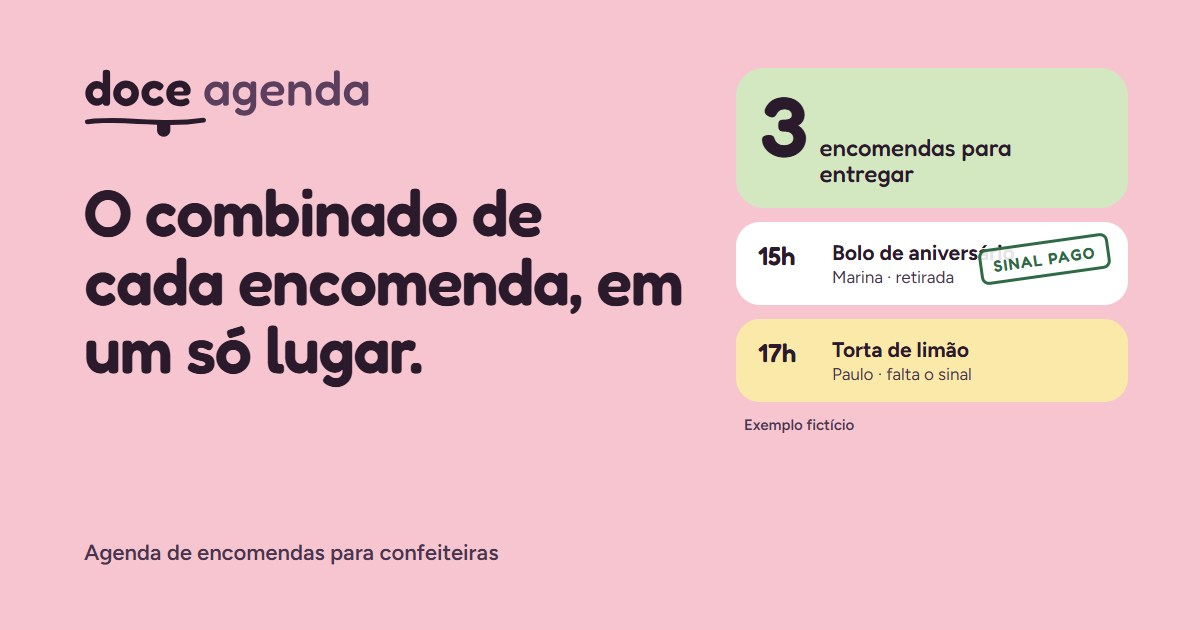
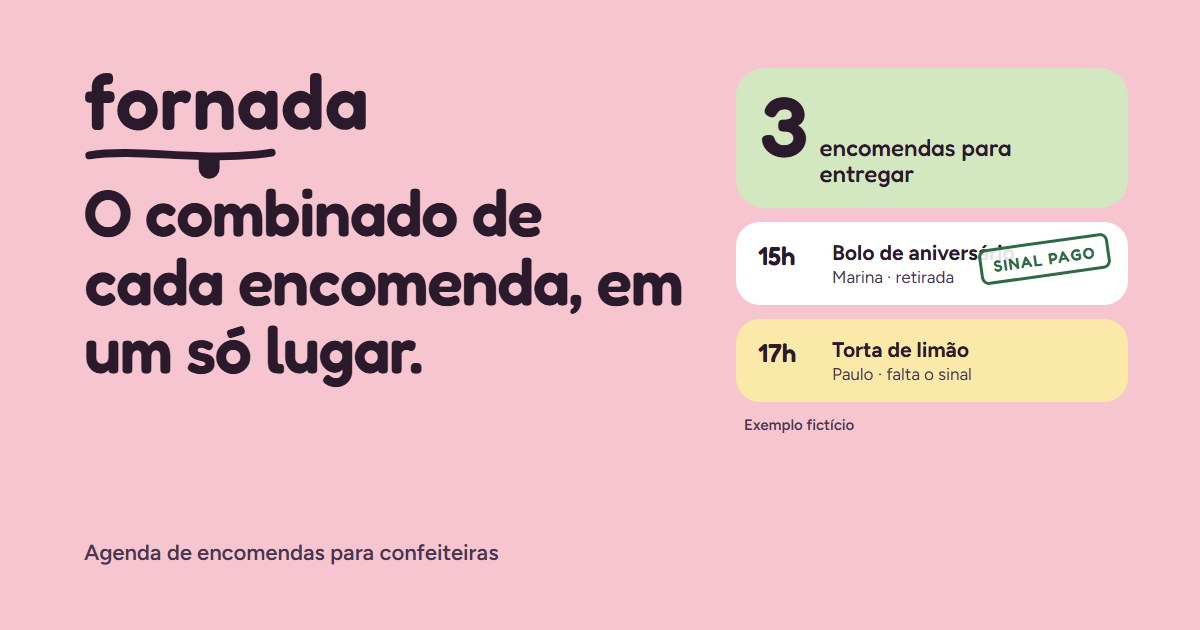
feat: rebranding visível para Fornada e novo posicionamento na landing e cadastro

Changed region(s): [[0.0617, 0.1206, 0.3083, 0.3016]]

diff --git a/public/privacidade/index.html b/public/privacidade/index.html
@@ -1,12 +1,12 @@
-<!doctype html><html lang="pt-BR"><head><meta charset="utf-8"><meta name="viewport" content="width=device-width,initial-scale=1"><title>Privacidade — Doce Agenda</title><link rel="icon" href="/favicon.svg"><link rel="stylesheet" href="/tokens.css"><link rel="stylesheet" href="/privacidade/privacy.css"><script src="/privacidade/voltar.js" defer></script></head><body><header><a href="/"><img src="/logo.svg" alt="Doce Agenda" width="156" height="42"></a><a class="top-back" id="top-back" href="/">Voltar</a></header><main>
-<h1>Seus dados no Doce Agenda</h1>
-<p class="updated">Atualizado em 4 de novembro de 2026 · Doce Agenda, piloto mantido por Lucas Tenório.</p>
-<p>Esta página explica o que acontece com os dados de quem faz um pedido pelo link de uma confeitaria e de quem usa o Doce Agenda para organizar as encomendas. O que é coletado continua o mesmo; nesta versão o texto foi reorganizado e ganhou a parte sobre a conta da confeiteira.</p>
+<!doctype html><html lang="pt-BR"><head><meta charset="utf-8"><meta name="viewport" content="width=device-width,initial-scale=1"><title>Privacidade — Fornada</title><link rel="icon" href="/favicon.svg"><link rel="stylesheet" href="/tokens.css"><link rel="stylesheet" href="/privacidade/privacy.css"><script src="/privacidade/voltar.js" defer></script></head><body><header><a href="/"><img src="/logo.svg" alt="Fornada" width="102" height="42"></a><a class="top-back" id="top-back" href="/">Voltar</a></header><main>
+<h1>Seus dados no Fornada</h1>
+<p class="updated">Atualizado em 4 de novembro de 2026 · Fornada, mantido por Lucas Tenório.</p>
+<p>Esta página explica o que acontece com os dados de quem faz um pedido pelo link de uma confeitaria e de quem usa o Fornada para organizar as encomendas. O que é coletado continua o mesmo; nesta versão o texto foi reorganizado e ganhou a parte sobre a conta da confeiteira.</p>
 
 <section class="summary" aria-labelledby="resumo"><h2 id="resumo">Em resumo</h2><ul>
 <li>Quem faz um pedido pelo link envia nome, WhatsApp, o pedido e, para entrega, o endereço. Esses dados vão para a confeitaria do link, que decide como atender.</li>
 <li>Nada é confirmado nem cobrado pelo link. O Pix, quando houver, é pago no aplicativo do seu banco.</li>
-<li>O Doce Agenda não vende dados, não usa os dados para publicidade e não manda mensagens sozinho.</li>
+<li>O Fornada não vende dados, não usa os dados para publicidade e não manda mensagens sozinho.</li>
 <li>Para pedir acesso, correção ou exclusão, fale primeiro com a confeitaria ou escreva para <a href="mailto:doceagenda@lucast.app">doceagenda@lucast.app</a>.</li>
 </ul></section>
 
@@ -19,18 +19,18 @@
 <li><a href="#onde-ficam">Onde os dados ficam</a></li><li><a href="#abuso">Proteção contra abuso e métricas</a></li><li><a href="#contato">Contato</a></li></ul></nav>
 
 <section class="part" aria-labelledby="parte-pedido"><h2 id="parte-pedido">Para quem faz pedido</h2>
-<h3 id="quem-recebe">Quem recebe os dados</h3><p>A confeitaria identificada no link recebe sua solicitação e decide como atender a encomenda. Por isso, a lei a chama de controladora dos dados dessa solicitação: é ela quem decide o que fazer com eles. O Doce Agenda fornece o sistema e atua como operador, ou seja, só guarda e organiza esses registros para ela.</p>
-<h3 id="o-que-coletamos">O que coletamos e para quê</h3><p>Seu nome, WhatsApp, produto, data, horário, forma de retirada ou entrega e os detalhes que você escrever são usados para analisar e responder à encomenda. O endereço é pedido somente para entrega. Se você marcar outros itens em "Incluir mais alguma coisa?", eles vão junto com o pedido. O envio exige sua autorização; a data e a versão deste aviso ficam registradas. Evite incluir documentos, dados bancários ou informações pessoais de outras pessoas.</p><p>Os campos de observações alimentares são opcionais. Não envie diagnósticos ou histórico de saúde. Se precisar combinar uma restrição alimentar, descreva apenas o necessário para a encomenda.</p><p>"Avisar no WhatsApp" abre uma conversa no WhatsApp com um resumo do pedido. Quem envia a mensagem é você; o Doce Agenda não manda mensagens automaticamente. No WhatsApp valem também as regras de privacidade dele.</p>
+<h3 id="quem-recebe">Quem recebe os dados</h3><p>A confeitaria identificada no link recebe sua solicitação e decide como atender a encomenda. Por isso, a lei a chama de controladora dos dados dessa solicitação: é ela quem decide o que fazer com eles. O Fornada fornece o sistema e atua como operador, ou seja, só guarda e organiza esses registros para ela.</p>
+<h3 id="o-que-coletamos">O que coletamos e para quê</h3><p>Seu nome, WhatsApp, produto, data, horário, forma de retirada ou entrega e os detalhes que você escrever são usados para analisar e responder à encomenda. O endereço é pedido somente para entrega. Se você marcar outros itens em "Incluir mais alguma coisa?", eles vão junto com o pedido. O envio exige sua autorização; a data e a versão deste aviso ficam registradas. Evite incluir documentos, dados bancários ou informações pessoais de outras pessoas.</p><p>Os campos de observações alimentares são opcionais. Não envie diagnósticos ou histórico de saúde. Se precisar combinar uma restrição alimentar, descreva apenas o necessário para a encomenda.</p><p>"Avisar no WhatsApp" abre uma conversa no WhatsApp com um resumo do pedido. Quem envia a mensagem é você; o Fornada não manda mensagens automaticamente. No WhatsApp valem também as regras de privacidade dele.</p>
 <h3 id="acompanhar">Acompanhar o pedido</h3><p>Quem envia uma solicitação pelo link recebe um endereço só daquele pedido para acompanhar a situação. A página mostra o código, o doce, a data, se é retirada ou entrega, a situação e, quando houver, o valor e o que a confeitaria já conferiu. Ela não mostra seu nome, WhatsApp, endereço de entrega, detalhes nem o histórico. Quem tiver esse endereço vê a mesma página: guarde-o e compartilhe só com quem quiser.</p>
 <h3 id="historico">Seu histórico com a confeitaria</h3><p>A confeitaria vê, numa ficha só dela, os pedidos que você já fez: datas, produtos e valores. A ficha junta os pedidos pelo seu WhatsApp (ou pelo nome, quando o pedido não tem telefone) e pode lembrar a confeitaria de datas que se repetem, como um aniversário no ano seguinte. Essas fichas não são compartilhadas com ninguém nem usadas para publicidade. A confeitaria pode apagar seus dados pessoais dos pedidos a qualquer momento: nome, WhatsApp, endereço e detalhes saem, e ficam só datas, produtos e valores para as contas dela.</p>
-<h3 id="pix">Pagamento por Pix</h3><p>A confeitaria pode enviar um código Pix gerado pelo Doce Agenda com a chave e o nome dela. O pagamento acontece no aplicativo do seu banco: o Doce Agenda não processa pagamentos, não acessa sua conta e não recebe seus dados bancários. A confeitaria confere no banco dela e registra no sistema o valor que recebeu.</p>
+<h3 id="pix">Pagamento por Pix</h3><p>A confeitaria pode enviar um código Pix gerado pelo Fornada com a chave e o nome dela. O pagamento acontece no aplicativo do seu banco: o Fornada não processa pagamentos, não acessa sua conta e não recebe seus dados bancários. A confeitaria confere no banco dela e registra no sistema o valor que recebeu.</p>
 <h3 id="rascunho">Rascunho neste aparelho</h3><p>Ao começar um pedido pelo link, guardamos neste navegador um rascunho com o doce, os itens extras, a data, o horário, a forma de retirada ou entrega e os campos do bolo preenchidos, inclusive inscrição e observações alimentares, se usados. Assim você pode continuar o pedido por até 24 horas depois da última alteração.</p><p>Nome, WhatsApp, endereço e detalhes gerais não entram no rascunho, e ele não é enviado a ninguém enquanto você não enviar o pedido. Ele é apagado quando o pedido é enviado, quando você escolhe "Começar de novo" ou na próxima visita ao link depois das 24 horas; até essa visita, o navegador pode manter o registro. Em aparelhos compartilhados, outra pessoa que use o mesmo navegador pode ver o rascunho.</p>
 <h3 id="conservacao">Por quanto tempo ficam</h3><p>Solicitações recusadas têm os dados pessoais e os textos livres apagados do sistema depois de 90 dias, por uma rotina diária. Ficam só registros mínimos da solicitação, para estatística. Solicitações aceitas fazem parte dos registros de atendimento da confeitaria: pergunte a ela por quanto tempo guarda e peça a exclusão quando for o caso.</p>
-<h3 id="direitos">Seus direitos</h3><p>Você pode pedir acesso, correção, informações sobre o uso e exclusão dos seus dados, ou retirar a autorização, respeitados os casos em que a lei manda guardar. Procure primeiro a confeitaria, pelo canal em que recebeu o link ou pelo WhatsApp publicado na vitrine. Também pode escrever para o Doce Agenda, que encaminha o pedido: <a href="mailto:doceagenda@lucast.app">doceagenda@lucast.app</a>.</p><p>Não use o formulário para enviar dados de crianças sem autorização e acompanhamento de um responsável.</p>
+<h3 id="direitos">Seus direitos</h3><p>Você pode pedir acesso, correção, informações sobre o uso e exclusão dos seus dados, ou retirar a autorização, respeitados os casos em que a lei manda guardar. Procure primeiro a confeitaria, pelo canal em que recebeu o link ou pelo WhatsApp publicado na vitrine. Também pode escrever para o Fornada, que encaminha o pedido: <a href="mailto:doceagenda@lucast.app">doceagenda@lucast.app</a>.</p><p>Não use o formulário para enviar dados de crianças sem autorização e acompanhamento de um responsável.</p>
 </section>
 
 <section class="part" aria-labelledby="parte-confeiteira"><h2 id="parte-confeiteira">Para a confeiteira</h2>
-<h3 id="conta">Sua conta</h3><p>Para criar a conta, pedimos o nome da confeitaria, seu e-mail e uma senha. A senha fica guardada de forma protegida pelo serviço de contas e ninguém consegue lê-la, nem o Doce Agenda. Se a entrada com Google estiver disponível e você usá-la, o Google nos informa seu nome e e-mail.</p><p>Dentro da conta ficam os dados que você anota para trabalhar: pedidos, clientes, pagamentos, dias e limites, a vitrine e, se você cadastrar, a chave Pix e o nome que aparecem no código Pix. Só quem entra com a sua conta vê esses dados. Eles são usados para o app funcionar, não para publicidade, e não são vendidos.</p><p>Os dados das suas clientes que entram pelo link seguem as regras da parte "Para quem faz pedido": use-os só para atender as encomendas. Para pedir acesso, correção ou exclusão da sua conta e dos dados dela, escreva para <a href="mailto:doceagenda@lucast.app">doceagenda@lucast.app</a> usando o e-mail da conta.</p>
+<h3 id="conta">Sua conta</h3><p>Para criar a conta, pedimos o nome da confeitaria, seu e-mail e uma senha. A senha fica guardada de forma protegida pelo serviço de contas e ninguém consegue lê-la, nem o Fornada. Se a entrada com Google estiver disponível e você usá-la, o Google nos informa seu nome e e-mail.</p><p>Dentro da conta ficam os dados que você anota para trabalhar: pedidos, clientes, pagamentos, dias e limites, a vitrine e, se você cadastrar, a chave Pix e o nome que aparecem no código Pix. Só quem entra com a sua conta vê esses dados. Eles são usados para o app funcionar, não para publicidade, e não são vendidos.</p><p>Os dados das suas clientes que entram pelo link seguem as regras da parte "Para quem faz pedido": use-os só para atender as encomendas. Para pedir acesso, correção ou exclusão da sua conta e dos dados dela, escreva para <a href="mailto:doceagenda@lucast.app">doceagenda@lucast.app</a> usando o e-mail da conta.</p>
 <h3 id="vitrine">A vitrine e as fotos</h3><p>A página do link mostra o que a própria confeitaria publicou: nome, frase de apresentação, Instagram, logo, foto de capa, fotos e descrições dos doces e, se ela quiser, valores "a partir de". A vitrine não mostra encomendas nem informações de clientes. As imagens ficam guardadas no Supabase e são públicas para quem tem o link, como qualquer página da internet; por isso, não devem mostrar pessoas sem autorização nem dados pessoais. Antes de enviar, o app reduz cada foto no seu aparelho e apaga dados da câmera, como a localização. Fotos trocadas ou removidas são apagadas do armazenamento quando você salva a vitrine de novo.</p>
 <h3 id="avisos">Avisos no aparelho</h3><p>Se você ligar os avisos e permitir as notificações no navegador, o aparelho pode mostrar o nome da cliente e o produto de um pedido novo enquanto o app estiver aberto, inclusive em outra aba. Outras pessoas que vejam a tela podem ler esse aviso. Dá para desligar em Ajustes ou nas permissões do navegador. Com o app fechado, o aviso ainda não funciona.</p>
 <h3 id="copias">Cópias de segurança</h3><p>Você pode baixar uma cópia de todos os seus pedidos quando quiser. Depois de baixada, a cópia fica no seu aparelho e sob sua responsabilidade, inclusive os dados das clientes que estão nela.</p>
@@ -41,4 +41,4 @@
 <h3 id="abuso">Proteção contra abuso e métricas</h3><p>Para limitar spam, o servidor usa um identificador calculado a partir do IP, sem guardar o IP em texto nessa base de controle. Esses registros temporários são apagados depois de dois dias. Contamos visitas, pedidos começados e envios de forma agregada, para entender o uso do link; não usamos esses dados para publicidade direcionada.</p>
 <h3 id="contato">Contato</h3><p>Dúvidas e pedidos sobre privacidade: <a href="mailto:doceagenda@lucast.app">doceagenda@lucast.app</a>.</p>
 </section>
-<p class="tab-note" id="tab-note" hidden>Abriu esta página numa aba nova? Feche esta aba para voltar ao seu pedido.</p><p class="back"><a id="back-link" href="/">Voltar ao Doce Agenda</a></p></main></body></html>
+<p class="tab-note" id="tab-note" hidden>Abriu esta página numa aba nova? Feche esta aba para voltar ao seu pedido.</p><p class="back"><a id="back-link" href="/">Voltar ao Fornada</a></p></main></body></html>

diff --git a/public/index.html b/public/index.html
@@ -8,7 +8,7 @@
     <link rel="icon" href="/favicon.svg" type="image/svg+xml">
     <link rel="apple-touch-icon" href="/icons/apple-touch-icon.png">
     <link rel="manifest" href="/manifest.webmanifest">
-    <title>Doce Agenda — pedidos da sua confeitaria</title>
+    <title>Fornada — pedidos da sua confeitaria</title>
     <link rel="stylesheet" href="/tokens.css">
     <link rel="stylesheet" href="/ui/doce-wa.css">
     <link rel="stylesheet" href="/ui/vnext.css">
@@ -19,7 +19,7 @@
   <body class="vnext">
     <div class="app-shell">
       <header class="topbar">
-        <a class="brand" href="#hoje" data-view="today" aria-label="Doce Agenda, ir para Hoje"><img src="/logo.svg" alt="Doce Agenda" width="182" height="48"></a>
+        <a class="brand" href="#hoje" data-view="today" aria-label="Fornada, ir para Hoje"><img src="/logo.svg" alt="Fornada" width="116" height="48"></a>
         <div class="topbar-actions">
           <span class="connection" id="connection" role="status"><span class="connection-dot"></span><span id="connection-text">Conectando…</span><span class="connection-short" id="connection-short" aria-hidden="true"></span></span>
           <button class="icon-button settings-button" data-view="settings" type="button" aria-label="Ajustes" title="Ajustes">Ajustes</button>
@@ -29,7 +29,7 @@
       <div class="demo-bar" id="demo-bar" role="note" hidden><p><strong>Demonstração</strong>, dados só neste navegador.</p><div class="demo-bar-actions"><button class="demo-bar-link" type="button" data-action="open-onboarding">Como funciona</button><button class="demo-bar-link" id="demo-reset" type="button" data-action="reset-demo" hidden>Recomeçar</button><a class="demo-bar-cta" href="/cadastro/">Criar conta grátis</a></div></div>
 
       <nav class="main-nav" aria-label="Navegação principal">
-        <a class="nav-brand" href="#hoje" data-view="today" aria-label="Doce Agenda, ir para Hoje"><img src="/logo.svg" alt="Doce Agenda" width="160" height="42"></a>
+        <a class="nav-brand" href="#hoje" data-view="today" aria-label="Fornada, ir para Hoje"><img src="/logo.svg" alt="Fornada" width="102" height="42"></a>
         <div class="nav-studio" id="nav-studio" hidden></div>
         <button class="nav-item active" data-view="today" type="button" aria-current="page"><span class="nav-icon" aria-hidden="true"><svg viewBox="0 0 24 24"><path d="M4 11.5 12 4l8 7.5V20h-5v-5.5H9V20H4z"/></svg></span>Hoje<span class="nav-count" id="nav-attention-count" hidden></span></button>
         <button class="nav-item" data-view="orders" type="button"><span class="nav-icon" aria-hidden="true"><svg viewBox="0 0 24 24"><path d="M8 5H6a2 2 0 0 0-2 2v13h16V7a2 2 0 0 0-2-2h-2"/><rect x="8" y="3" width="8" height="4" rx="1"/><path d="M8 12h8M8 16h8"/></svg></span>Pedidos</button>
@@ -54,7 +54,7 @@
         <section class="view-panel" id="view-settings" aria-labelledby="settings-title" hidden><div id="settings-content"></div><details class="settings-data-tools surface"><summary>Avançado</summary><div><h2>Cópia de segurança</h2><p>Exporte seus dados ou restaure um arquivo salvo anteriormente. A cópia inclui seus pedidos, os dados das clientes e sua chave Pix: guarde em lugar seguro.</p></div><div><button class="button button-quiet" id="export-button" type="button" title="Baixar cópia de segurança" aria-label="Baixar cópia de segurança">Baixar backup</button> <button class="button button-quiet" id="restore-button" type="button" title="Restaurar dados" aria-label="Restaurar dados">Restaurar dados</button></div></details></section>
       </main>
 
-      <footer class="app-footer"><span>Doce Agenda</span><span>Seu combinado, em um só lugar.</span></footer>
+      <footer class="app-footer"><span>Fornada</span><span>Seu combinado, em um só lugar.</span></footer>
     </div>
 
     <dialog class="dialog order-dialog" id="order-dialog" aria-labelledby="order-dialog-title">
@@ -115,7 +115,7 @@
     <dialog class="dialog" id="refuse-dialog" aria-labelledby="refuse-title"><form id="refuse-form" method="dialog"><div class="dialog-heading"><h2 id="refuse-title">Recusar este pedido?</h2><button type="button" class="icon-button close-dialog" data-close="refuse-dialog" aria-label="Fechar"><svg class="ui-icon" viewBox="0 0 24 24" aria-hidden="true"><path d="M6 6l12 12M18 6 6 18"/></svg></button></div><p>A cliente não é avisada sozinha. Depois, copie a mensagem pronta e mande no WhatsApp.</p><label class="field"><span>Quer explicar o motivo? (opcional)</span><textarea name="reason" maxlength="500" rows="2" placeholder="Ex.: essa data já está lotada"></textarea></label><p role="alert" class="form-error" hidden></p><div class="dialog-actions"><button type="button" class="button button-quiet" data-close="refuse-dialog">Voltar</button><button type="submit" class="button button-primary">Recusar pedido</button></div></form></dialog>
     <dialog class="dialog restore-dialog" id="restore-dialog" aria-labelledby="restore-title">
       <div class="dialog-heading"><div><h2 id="restore-title">Restaurar dados</h2></div><button class="icon-button" type="button" data-close="restore-dialog" aria-label="Fechar restauração"><svg class="ui-icon" viewBox="0 0 24 24" aria-hidden="true"><path d="M6 6l12 12M18 6 6 18"/></svg></button></div>
-      <p>Escolha um backup JSON do Doce Agenda. A restauração substitui os dados deste dispositivo. Uma cópia do estado atual será preservada antes da troca.</p>
+      <p>Escolha um backup JSON do Fornada. A restauração substitui os dados deste dispositivo. Uma cópia do estado atual será preservada antes da troca.</p>
       <label class="button button-quiet restore-file-label" for="restore-file">Escolher arquivo JSON</label><input id="restore-file" class="visually-hidden" type="file" accept="application/json,.json">
       <p class="restore-preview" id="restore-preview" aria-live="polite">Nenhum arquivo escolhido.</p>
       <div class="dialog-actions"><button class="button button-quiet" type="button" data-close="restore-dialog">Cancelar</button><button class="button button-primary" id="restore-confirm" type="button" disabled>Substituir dados</button></div>

diff --git a/public/previa-landing/index.html b/public/previa-landing/index.html
@@ -5,7 +5,7 @@
 <meta name="viewport" content="width=device-width, initial-scale=1">
 <meta name="robots" content="noindex, nofollow">
 <meta name="theme-color" content="#faf7f5">
-<title>Doce Agenda — Uma semana de encomendas, sem susto</title>
+<title>Fornada — Uma semana de encomendas, sem susto</title>
 <link rel="icon" href="/favicon.svg" type="image/svg+xml">
 <link rel="apple-touch-icon" href="/icons/apple-touch-icon.png">
 <link rel="stylesheet" href="/tokens.css">
@@ -16,8 +16,8 @@
 <a class="skip-link" href="#main">Pular para o conteúdo</a>
 
 <header class="header wrap">
-  <a class="brand" href="/" aria-label="Doce Agenda, início">
-    <img src="/logo.svg" width="164" height="43" alt="Doce Agenda">
+  <a class="brand" href="/" aria-label="Fornada, início">
+    <img src="/logo.svg" width="104" height="43" alt="Fornada">
   </a>
   <a class="header-login" href="/cadastro/?mode=login">Entrar</a>
 </header>
@@ -38,8 +38,8 @@
         <a class="outline" href="/cadastro/">Criar minha agenda grátis</a>
       </div>
       <ul class="checks">
-        <li>Grátis: projeto acadêmico</li>
-        <li>Sem cartão</li>
+        <li>Grátis, sem cartão</li>
+        <li>Seus pedidos ficam na sua conta</li>
         <li>Nada para instalar</li>
       </ul>
     </div>
@@ -59,7 +59,7 @@
         </ul>
       </div>
 
-      <aside class="preview-app" aria-label="Prévia da tela Agenda do Doce Agenda">
+      <aside class="preview-app" aria-label="Prévia da tela Agenda do Fornada">
         <div class="pa-top">
           <strong>Terça, 27 de outubro</strong>
           <span class="pa-pill">Meu link</span>
@@ -304,7 +304,7 @@
         <li>Seus dados são seus</li>
         <li>Nada é confirmado sem você</li>
         <li>Nenhum pagamento passa pelo app</li>
-        <li>Grátis: é um projeto acadêmico</li>
+        <li>Você pode pedir uma cópia dos seus dados</li>
       </ul>
     </div>
   </section>
@@ -312,12 +312,13 @@
   <section class="faq wrap" aria-labelledby="faq-title">
     <h2 id="faq-title">Ficou alguma dúvida?</h2>
     <div class="faq-list">
-      <details><summary>Quanto custa?</summary><p>Nada. O Doce Agenda é um projeto acadêmico e gratuito, sem cartão.</p></details>
-      <details><summary>E se o projeto acabar?</summary><p>Você pode pedir uma cópia dos seus dados a qualquer momento. E, se um dia o Doce Agenda for encerrado, você será avisada com antecedência para guardar tudo.</p></details>
+      <details><summary>Quanto custa?</summary><p>Nada. Criar a conta e usar o app é grátis, sem cartão.</p></details>
+      <details><summary>E se o app sair do ar?</summary><p>Você pode pedir uma cópia dos seus dados a qualquer momento. E, se um dia o Fornada for encerrado, você será avisada com antecedência para guardar tudo.</p></details>
       <details><summary>Preciso instalar alguma coisa?</summary><p>Não. Abra pelo navegador do celular, entre com sua conta e pronto.</p></details>
       <details><summary>Minha cliente precisa baixar algo para usar o link?</summary><p>Não. Ela abre o link, escolhe o doce e a data, e você revisa antes de confirmar.</p></details>
       <details><summary>Sou avisada quando chega um pedido pelo link?</summary><p>Com o app aberto, aparece um aviso na tela. Com o app fechado, o pedido espera no aviso do topo da Agenda.</p></details>
       <details><summary>A demonstração guarda meus pedidos?</summary><p>Só neste aparelho, enquanto você não limpar o navegador. Para guardar na nuvem com segurança, crie sua conta grátis.</p></details>
+      <details><summary>Quem faz?</summary><p>Nasceu como projeto acadêmico, feito por Lucas Tenório. Dúvidas: <a href="mailto:doceagenda@lucast.app">doceagenda@lucast.app</a>.</p></details>
     </div>
   </section>
 
@@ -334,7 +335,7 @@
 </main>
 
 <footer class="wrap footer">
-  <span>Doce Agenda · projeto acadêmico e gratuito</span>
+  <span>Fornada · agenda de encomendas para confeiteiras</span>
   <a class="footer-link" href="/privacidade/">Política de privacidade</a>
   <small>Os pedidos mostrados na página e na demonstração são exemplos fictícios.</small>
 </footer>

diff --git a/public/account/index.html b/public/account/index.html
@@ -4,8 +4,8 @@
   <meta charset="utf-8">
   <meta name="viewport" content="width=device-width, initial-scale=1">
   <meta name="theme-color" content="#faf7f5">
-  <meta name="description" content="Acesse sua conta Doce Agenda ou crie uma conta para sua confeitaria.">
-  <title>Conta — Doce Agenda</title>
+  <meta name="description" content="Acesse sua conta Fornada ou crie uma conta para sua confeitaria.">
+  <title>Conta — Fornada</title>
   <link rel="icon" href="/favicon.svg" type="image/svg+xml">
   <link rel="apple-touch-icon" href="/icons/apple-touch-icon.png">
   <link rel="manifest" href="/manifest.webmanifest">
@@ -19,8 +19,8 @@
 <body>
   <a class="skip-link" href="#main">Pular para o conteúdo</a>
   <header class="site-header">
-    <a class="brand" href="/" aria-label="Doce Agenda, página inicial">
-      <img src="/logo.svg" alt="Doce Agenda" width="182" height="48">
+    <a class="brand" href="/" aria-label="Fornada, página inicial">
+      <img src="/logo.svg" alt="Fornada" width="116" height="48">
     </a>
     <a class="header-link" href="/demo/">Ver uma demonstração</a>
   </header>
@@ -73,8 +73,8 @@
           <button id="signup-submit" class="button button-primary" type="submit">Criar conta</button>
         </form>
         <ul class="checks" aria-label="Condições">
-          <li>Grátis: projeto acadêmico</li>
-          <li>Sem cartão</li>
+          <li>Grátis, sem cartão</li>
+          <li>Seus pedidos ficam na sua conta</li>
           <li>Nada para instalar</li>
         </ul>
 
@@ -104,7 +104,7 @@
         </form>
         <div id="recovery-support" class="recovery-support" hidden>
           <p>Escreva para <strong>doceagenda@lucast.app</strong> usando o e-mail da sua conta e diga o nome da confeitaria. Respondemos em até 1 dia útil com os próximos passos para você criar uma senha nova. Por segurança, ninguém consegue ver a senha atual.</p>
-          <a class="button button-primary" href="mailto:doceagenda@lucast.app?subject=Recuperar%20acesso%20ao%20Doce%20Agenda&amp;body=E-mail%20da%20conta%3A%20%0ANome%20da%20confeitaria%3A%20">Escrever o e-mail</a>
+          <a class="button button-primary" href="mailto:doceagenda@lucast.app?subject=Recuperar%20acesso%20ao%20Fornada&amp;body=E-mail%20da%20conta%3A%20%0ANome%20da%20confeitaria%3A%20">Escrever o e-mail</a>
           <button class="button button-secondary" id="copy-support" type="button">Copiar o endereço</button>
           <p class="copy-note" id="copy-support-note" role="status"></p>
           <div class="form-row form-row-center"><a class="text-link" href="/cadastro/?mode=login">Voltar para entrar</a></div>
@@ -139,6 +139,6 @@
     </section>
   </main>
 
-  <footer class="site-footer"><span>Doce Agenda</span><span>Sua semana de encomendas, sem susto.</span></footer>
+  <footer class="site-footer"><span>Fornada</span><span>Sua semana de encomendas, sem susto.</span></footer>
 </body>
 </html>

diff --git a/public/encomenda/index.html b/public/encomenda/index.html
@@ -9,7 +9,7 @@
 <meta name="description" content="Escolha o doce e a data e envie seu pedido para a confeitaria.">
 <meta property="og:type" content="website">
 <meta property="og:locale" content="pt_BR">
-<meta property="og:site_name" content="Doce Agenda">
+<meta property="og:site_name" content="Fornada">
 <meta property="og:title" content="Faça sua encomenda">
 <meta property="og:description" content="Escolha o doce e a data e envie seu pedido para a confeitaria.">
 <link rel="icon" href="/favicon.svg">
@@ -114,7 +114,7 @@ if (/[?&]preview=/.test(location.search) && window.top === window) document.writ
   </dialog>
 </main>
 <footer class="foot">
-  <a class="made" href="/"><svg viewBox="0 0 10 13" width="10" height="13" aria-hidden="true"><path d="M5 0C5 0 0 6 0 8.5A5 5 0 0 0 10 8.5C10 6 5 0 5 0Z" fill="#f2a7bb"/></svg>Criado com Doce Agenda</a>
+  <a class="made" href="/"><svg viewBox="0 0 10 13" width="10" height="13" aria-hidden="true"><path d="M5 0C5 0 0 6 0 8.5A5 5 0 0 0 10 8.5C10 6 5 0 5 0Z" fill="#f2a7bb"/></svg>Criado com Fornada</a>
   <a class="priv" href="/privacidade/">Privacidade</a>
 </footer>
 </body>

diff --git a/public/app.js b/public/app.js
@@ -1406,7 +1406,7 @@ async function inspectRestoreFile(file) {
   if (file.size > 5 * 1024 * 1024) { preview.textContent = "O arquivo excede o limite de 5 MB."; return; }
   try {
     const backup = JSON.parse(await file.text());
-    if (backup.version !== 1 || !Array.isArray(backup.orders) || !Array.isArray(backup.payments)) throw new Error("Este arquivo não parece um backup do Doce Agenda versão 1.");
+    if (backup.version !== 1 || !Array.isArray(backup.orders) || !Array.isArray(backup.payments)) throw new Error("Este arquivo não parece um backup do Fornada versão 1.");
     if (backup.orders.length > 10000 || backup.payments.length > 50000) throw new Error("O backup contém mais registros que o limite aceito.");
     state.restoreData = backup;
     preview.textContent = `Arquivo reconhecido: ${backup.orders.length} ${backup.orders.length === 1 ? "pedido" : "pedidos"} e ${backup.payments.length} ${backup.payments.length === 1 ? "pagamento" : "pagamentos"}. Restaurar substituirá os dados atuais ${window.DoceApi.mode === 'cloud' ? 'da sua conta' : 'neste dispositivo'}.`;

diff --git a/public/previa-landing/style.css b/public/previa-landing/style.css
@@ -1,4 +1,4 @@
-/* Landing editorial do Doce Agenda: porcelana quente, fotografia realista e prévia fiel do app. */
+/* Landing editorial do Fornada: porcelana quente, fotografia realista e prévia fiel do app. */
 *, *::before, *::after { box-sizing: border-box; }
 html { scroll-behavior: smooth; }
 @media (prefers-reduced-motion: reduce) { html { scroll-behavior: auto; } }
@@ -21,7 +21,7 @@ a:focus-visible, button:focus-visible, summary:focus-visible { outline: 3px soli
 /* Cabeçalho */
 .header { height: 76px; display: flex; align-items: center; justify-content: space-between; border-bottom: var(--hairline); }
 .brand { display: inline-flex; align-items: center; min-height: 44px; }
-.brand img { width: 158px; height: auto; }
+.brand img { width: auto; height: 42px; }
 .header-login {
   display: inline-flex; align-items: center; justify-content: center; min-height: 44px; padding: 0 18px;
   border-radius: 999px; border: 1.5px solid #d6c8cc; background: var(--branco); color: var(--vinho);

diff --git a/public/privacidade/voltar.js b/public/privacidade/voltar.js
@@ -1,5 +1,5 @@
 // "Voltar" (no topo e no fim): quem chegou pela vitrine de uma confeitaria volta para a loja dela, não para a página do
-// Doce Agenda. Se a política abriu numa aba nova (o aviso do pedido abre assim), o caminho é fechar a aba.
+// Fornada. Se a política abriu numa aba nova (o aviso do pedido abre assim), o caminho é fechar a aba.
 (() => {
   try {
     const from = document.referrer ? new URL(document.referrer) : null;
@@ -9,7 +9,7 @@
       link.textContent = 'Voltar à loja';
     }
     if (history.length === 1) document.getElementById('tab-note').hidden = false;
-  } catch { /* fica o link para o Doce Agenda */ }
+  } catch { /* fica o link para o Fornada */ }
 })();
 // Link com âncora (#conta, vindo do cadastro): o navegador pula antes da letra carregar; quando ela chega o texto muda
 // de altura e o título sai do lugar. Pula de novo depois que a letra chegou.

diff --git a/scripts/og-image.html b/scripts/og-image.html
@@ -2,7 +2,7 @@
 <html lang="pt-BR">
 <head>
 <meta charset="utf-8">
-<title>Doce Agenda — imagem de compartilhamento</title>
+<title>Fornada — imagem de compartilhamento</title>
 <style>
 /* Fonte da imagem public/landing/assets/og.jpg (1200x630). Gerada por scripts/build-og-image.mjs. */
 @font-face{font-family:Fredoka;src:url("../public/fonts/Fredoka.ttf") format("truetype");font-weight:300 700;font-stretch:75% 125%}
@@ -28,7 +28,7 @@ h1{position:absolute;left:84px;top:178px;width:600px;margin:0;font-family:Fredok
 </style>
 </head>
 <body>
-<img class="brand" src="../public/logo.svg" alt="Doce Agenda">
+<img class="brand" src="../public/logo.svg" alt="Fornada">
 <h1>O combinado de cada encomenda, em um só lugar.</h1>
 <p class="tag">Agenda de encomendas para confeiteiras</p>
 <div class="stack">

diff --git a/public/account/account-ui.js b/public/account/account-ui.js
@@ -58,7 +58,7 @@
   // `retry` is offered for network failures, or always when `alwaysRetry` is set (availability check).
   const showError = (error, fallback, retry, alwaysRetry = false) => {
     const { message, network } = friendlyError(error, fallback);
-    if (error) console.warn("[Doce Agenda] Erro de acesso (detalhe técnico para suporte):", error?.message ?? error, { name: error?.name, code: error?.code, status: error?.status });
+    if (error) console.warn("[Fornada] Erro de acesso (detalhe técnico para suporte):", error?.message ?? error, { name: error?.name, code: error?.code, status: error?.status });
     $("error-message").textContent = message;
     $("error-message").hidden = false;
     $("status-message").hidden = true;

diff --git a/public/nova/index.html b/public/nova/index.html
@@ -6,7 +6,7 @@
 <meta name="robots" content="noindex, nofollow">
 <meta name="theme-color" content="#faf7f5">
 <meta name="description" content="Organize encomendas, pagamentos e a semana da sua confeitaria.">
-<title>Doce Agenda — pedidos da sua confeitaria</title>
+<title>Fornada — pedidos da sua confeitaria</title>
 <link rel="icon" href="/favicon.svg" type="image/svg+xml">
 <link rel="apple-touch-icon" href="/icons/apple-touch-icon.png">
 <link rel="manifest" href="/manifest.webmanifest">

diff --git a/public/aviso-sw.js b/public/aviso-sw.js
@@ -1,4 +1,4 @@
-// Avisos do Doce Agenda (O13): só mostra as notificações que a página pede e abre o app ao tocar.
+// Avisos do Fornada (O13): só mostra as notificações que a página pede e abre o app ao tocar.
 // Não guarda nada em cache nem intercepta requisições; sem "fetch", o site funciona como sem ele.
 self.addEventListener('install', () => self.skipWaiting());
 self.addEventListener('activate', (event) => event.waitUntil(self.clients.claim()));
